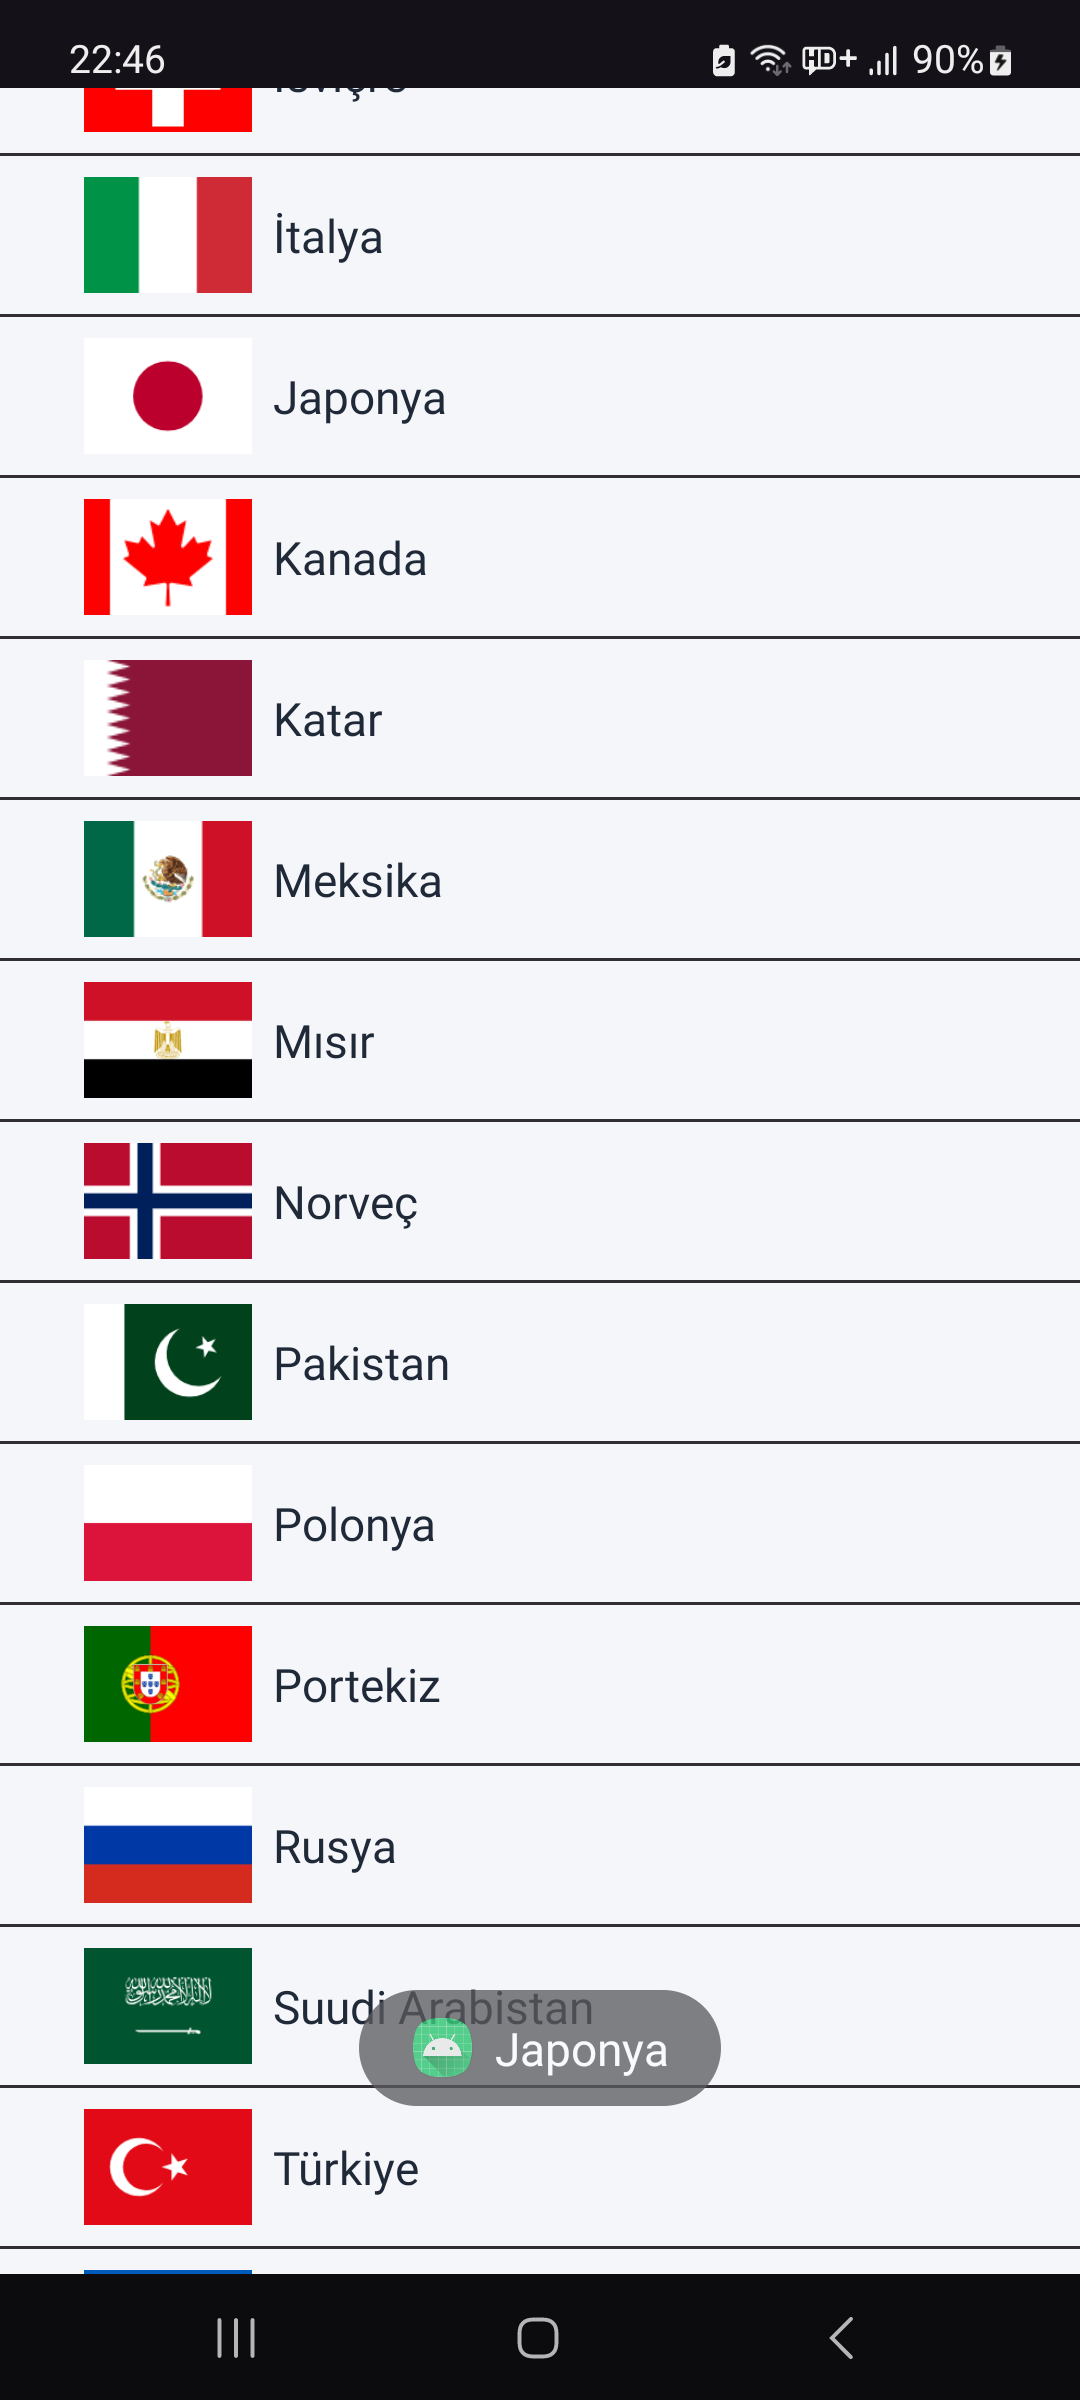
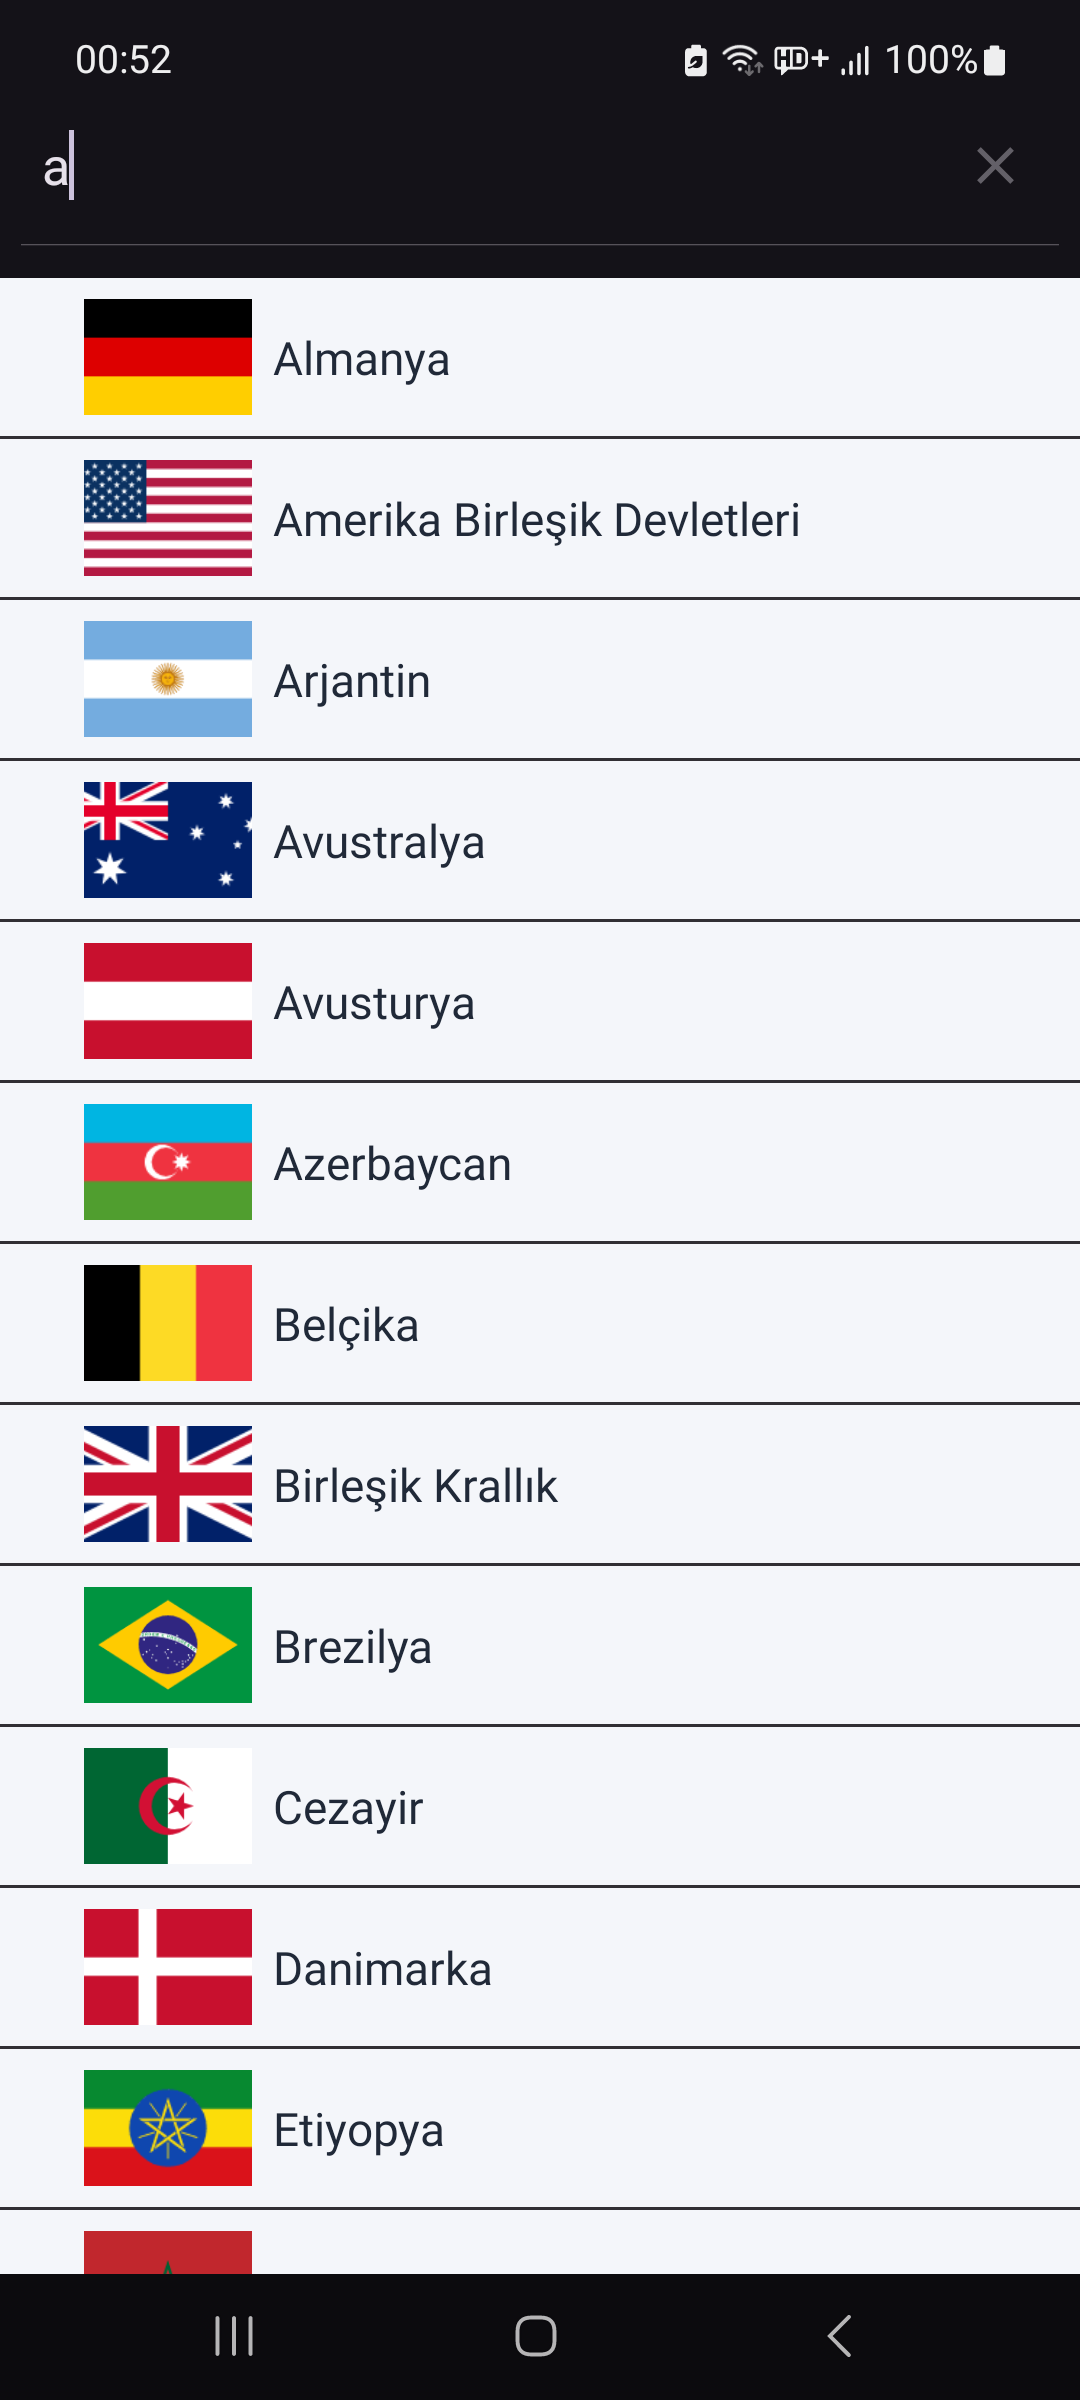
recycler view filtering

Changed region(s): [[0.0, 0.0, 1.0, 1.0], [0.4889, 0.9688, 0.5194, 1.0]]

diff --git a/CountryRecyclerView/app/src/main/java/com/zulalnb/countryrecyclerview/MainActivity.kt b/CountryRecyclerView/app/src/main/java/com/zulalnb/countryrecyclerview/MainActivity.kt
@@ -2,6 +2,7 @@ package com.zulalnb.countryrecyclerview
 
 import android.content.res.TypedArray
 import android.os.Bundle
+import android.widget.SearchView
 import android.widget.Toast
 import androidx.activity.enableEdgeToEdge
 import androidx.appcompat.app.AppCompatActivity
@@ -13,8 +14,7 @@ import androidx.recyclerview.widget.RecyclerView
 
 class MainActivity : AppCompatActivity() {
 
-    private val countryList = ArrayList<Country>()
-    private var isLastPage = false
+    private lateinit var adapter: CountryAdapter
 
     override fun onCreate(savedInstanceState: Bundle?) {
         super.onCreate(savedInstanceState)
@@ -26,10 +26,12 @@ class MainActivity : AppCompatActivity() {
             insets
         }
 
-        createCountryList()
+        val allCountries = loadAllCountriesFromResources()
 
         val rvCountries = findViewById<RecyclerView>(R.id.rvCountries)
-        val adapter = CountryAdapter(countryList, this::onItemClick)
+        val searchView = findViewById<SearchView>(R.id.searchView)
+
+        adapter = CountryAdapter(allCountries, this::onItemClick)
         rvCountries.adapter = adapter
 
         val layoutManager = LinearLayoutManager(this)
@@ -46,41 +48,42 @@ class MainActivity : AppCompatActivity() {
                 if (dy <= 0) return
 
                 val lastItem = layoutManager.findLastVisibleItemPosition()
-
-                if (!isLastPage && lastItem >= countryList.size - 4) {
-
-                    val previousSize = countryList.size
-                    val addedCount = createCountryList(offset = previousSize, limit = 20)
-
-                    if (addedCount > 0) {
-                        adapter.notifyItemRangeInserted(previousSize, addedCount)
-                    } else {
-                        isLastPage = true
-                    }
+                if (lastItem >= adapter.itemCount - 4) {
+                    adapter.loadNextPage()
                 }
+            }
+        })
+
+        searchView.setOnQueryTextListener(object : SearchView.OnQueryTextListener {
+            override fun onQueryTextChange(newText: String?): Boolean {
+                adapter.filter.filter(newText)
+                return true
+            }
+
+            override fun onQueryTextSubmit(query: String?): Boolean {
+                adapter.filter.filter(query)
+                return true
             }
         })
 
     }
 
     private fun onItemClick(position: Int) {
-        Toast.makeText(this, countryList[position].name, Toast.LENGTH_SHORT).show()
+        Toast.makeText(this, adapter.countries[position].name, Toast.LENGTH_SHORT).show()
     }
 
-    private fun createCountryList(offset: Int = 0, limit: Int = 20): Int {
+    private fun loadAllCountriesFromResources(): List<Country> {
+        val list = ArrayList<Country>()
         val names: Array<String> = resources.getStringArray(R.array.country_names)
         val flags: TypedArray = resources.obtainTypedArray(R.array.country_flags)
 
-        val start = offset.coerceAtLeast(0)
-        val end = minOf(names.size, start + limit)
-
-        for (i in start until end) {
+        for (i in names.indices) {
             val name = names[i]
             val flagId = flags.getResourceId(i, 0)
-            countryList.add(Country(name, flagId))
+            list.add(Country(name, flagId))
         }
 
         flags.recycle()
-        return end - start
+        return list
     }
 }

diff --git a/CountryRecyclerView/app/src/main/java/com/zulalnb/countryrecyclerview/CountryAdapter.kt b/CountryRecyclerView/app/src/main/java/com/zulalnb/countryrecyclerview/CountryAdapter.kt
@@ -2,14 +2,61 @@ package com.zulalnb.countryrecyclerview
 
 import android.view.LayoutInflater
 import android.view.ViewGroup
+import android.widget.Filter
+import android.widget.Filterable
 import androidx.recyclerview.widget.RecyclerView
 
 class CountryAdapter(
-    var countries: ArrayList<Country>,
-    itemClick: (position: Int) -> Unit
-) :
-    RecyclerView.Adapter<CountryViewHolder>() {
-    val itemClick = itemClick
+    private val masterCountries: List<Country>,
+    private val itemClick: (position: Int) -> Unit,
+) : RecyclerView.Adapter<CountryViewHolder>(), Filterable {
+
+    private var currentFilteredList: List<Country> = masterCountries
+    val countries = ArrayList<Country>()
+
+    private val pageSize = 20
+    private var isLoading = false
+    private var isLastPage = false
+
+    init {
+        loadInitialPage()
+    }
+
+    private fun loadInitialPage() {
+        countries.clear()
+        isLastPage = false
+        isLoading = false
+        val end = minOf(currentFilteredList.size, pageSize)
+        countries.addAll(currentFilteredList.subList(0, end))
+        if (countries.size >= currentFilteredList.size) {
+            isLastPage = true
+        }
+    }
+
+    fun loadNextPage() {
+        if (isLoading || isLastPage) return
+
+        isLoading = true
+        val previousSize = countries.size
+        val start = previousSize
+        if (start >= currentFilteredList.size) {
+            isLastPage = true
+            isLoading = false
+            return
+        }
+
+        val end = minOf(currentFilteredList.size, start + pageSize)
+        val newItems = currentFilteredList.subList(start, end)
+        countries.addAll(newItems)
+
+        if (countries.size >= currentFilteredList.size) {
+            isLastPage = true
+        }
+
+        notifyItemRangeInserted(previousSize, newItems.size)
+        isLoading = false
+    }
+
     override fun onCreateViewHolder(
         parent: ViewGroup,
         viewType: Int
@@ -34,5 +81,31 @@ class CountryAdapter(
 
     override fun getItemCount(): Int {
         return countries.size
+    }
+
+    override fun getFilter(): Filter {
+        return object : Filter() {
+            override fun performFiltering(constraint: CharSequence?): FilterResults {
+                val query = constraint?.toString()?.trim().orEmpty()
+                val filteredList = if (query.isEmpty()) {
+                    masterCountries
+                } else {
+                    masterCountries.filter { it.name.contains(query, ignoreCase = true) }
+                }
+                return FilterResults().apply {
+                    values = filteredList
+                }
+            }
+
+            @Suppress("UNCHECKED_CAST")
+            override fun publishResults(
+                constraint: CharSequence?,
+                results: FilterResults?
+            ) {
+                currentFilteredList = (results?.values as? List<Country>) ?: masterCountries
+                loadInitialPage()
+                notifyDataSetChanged()
+            }
+        }
     }
 }
